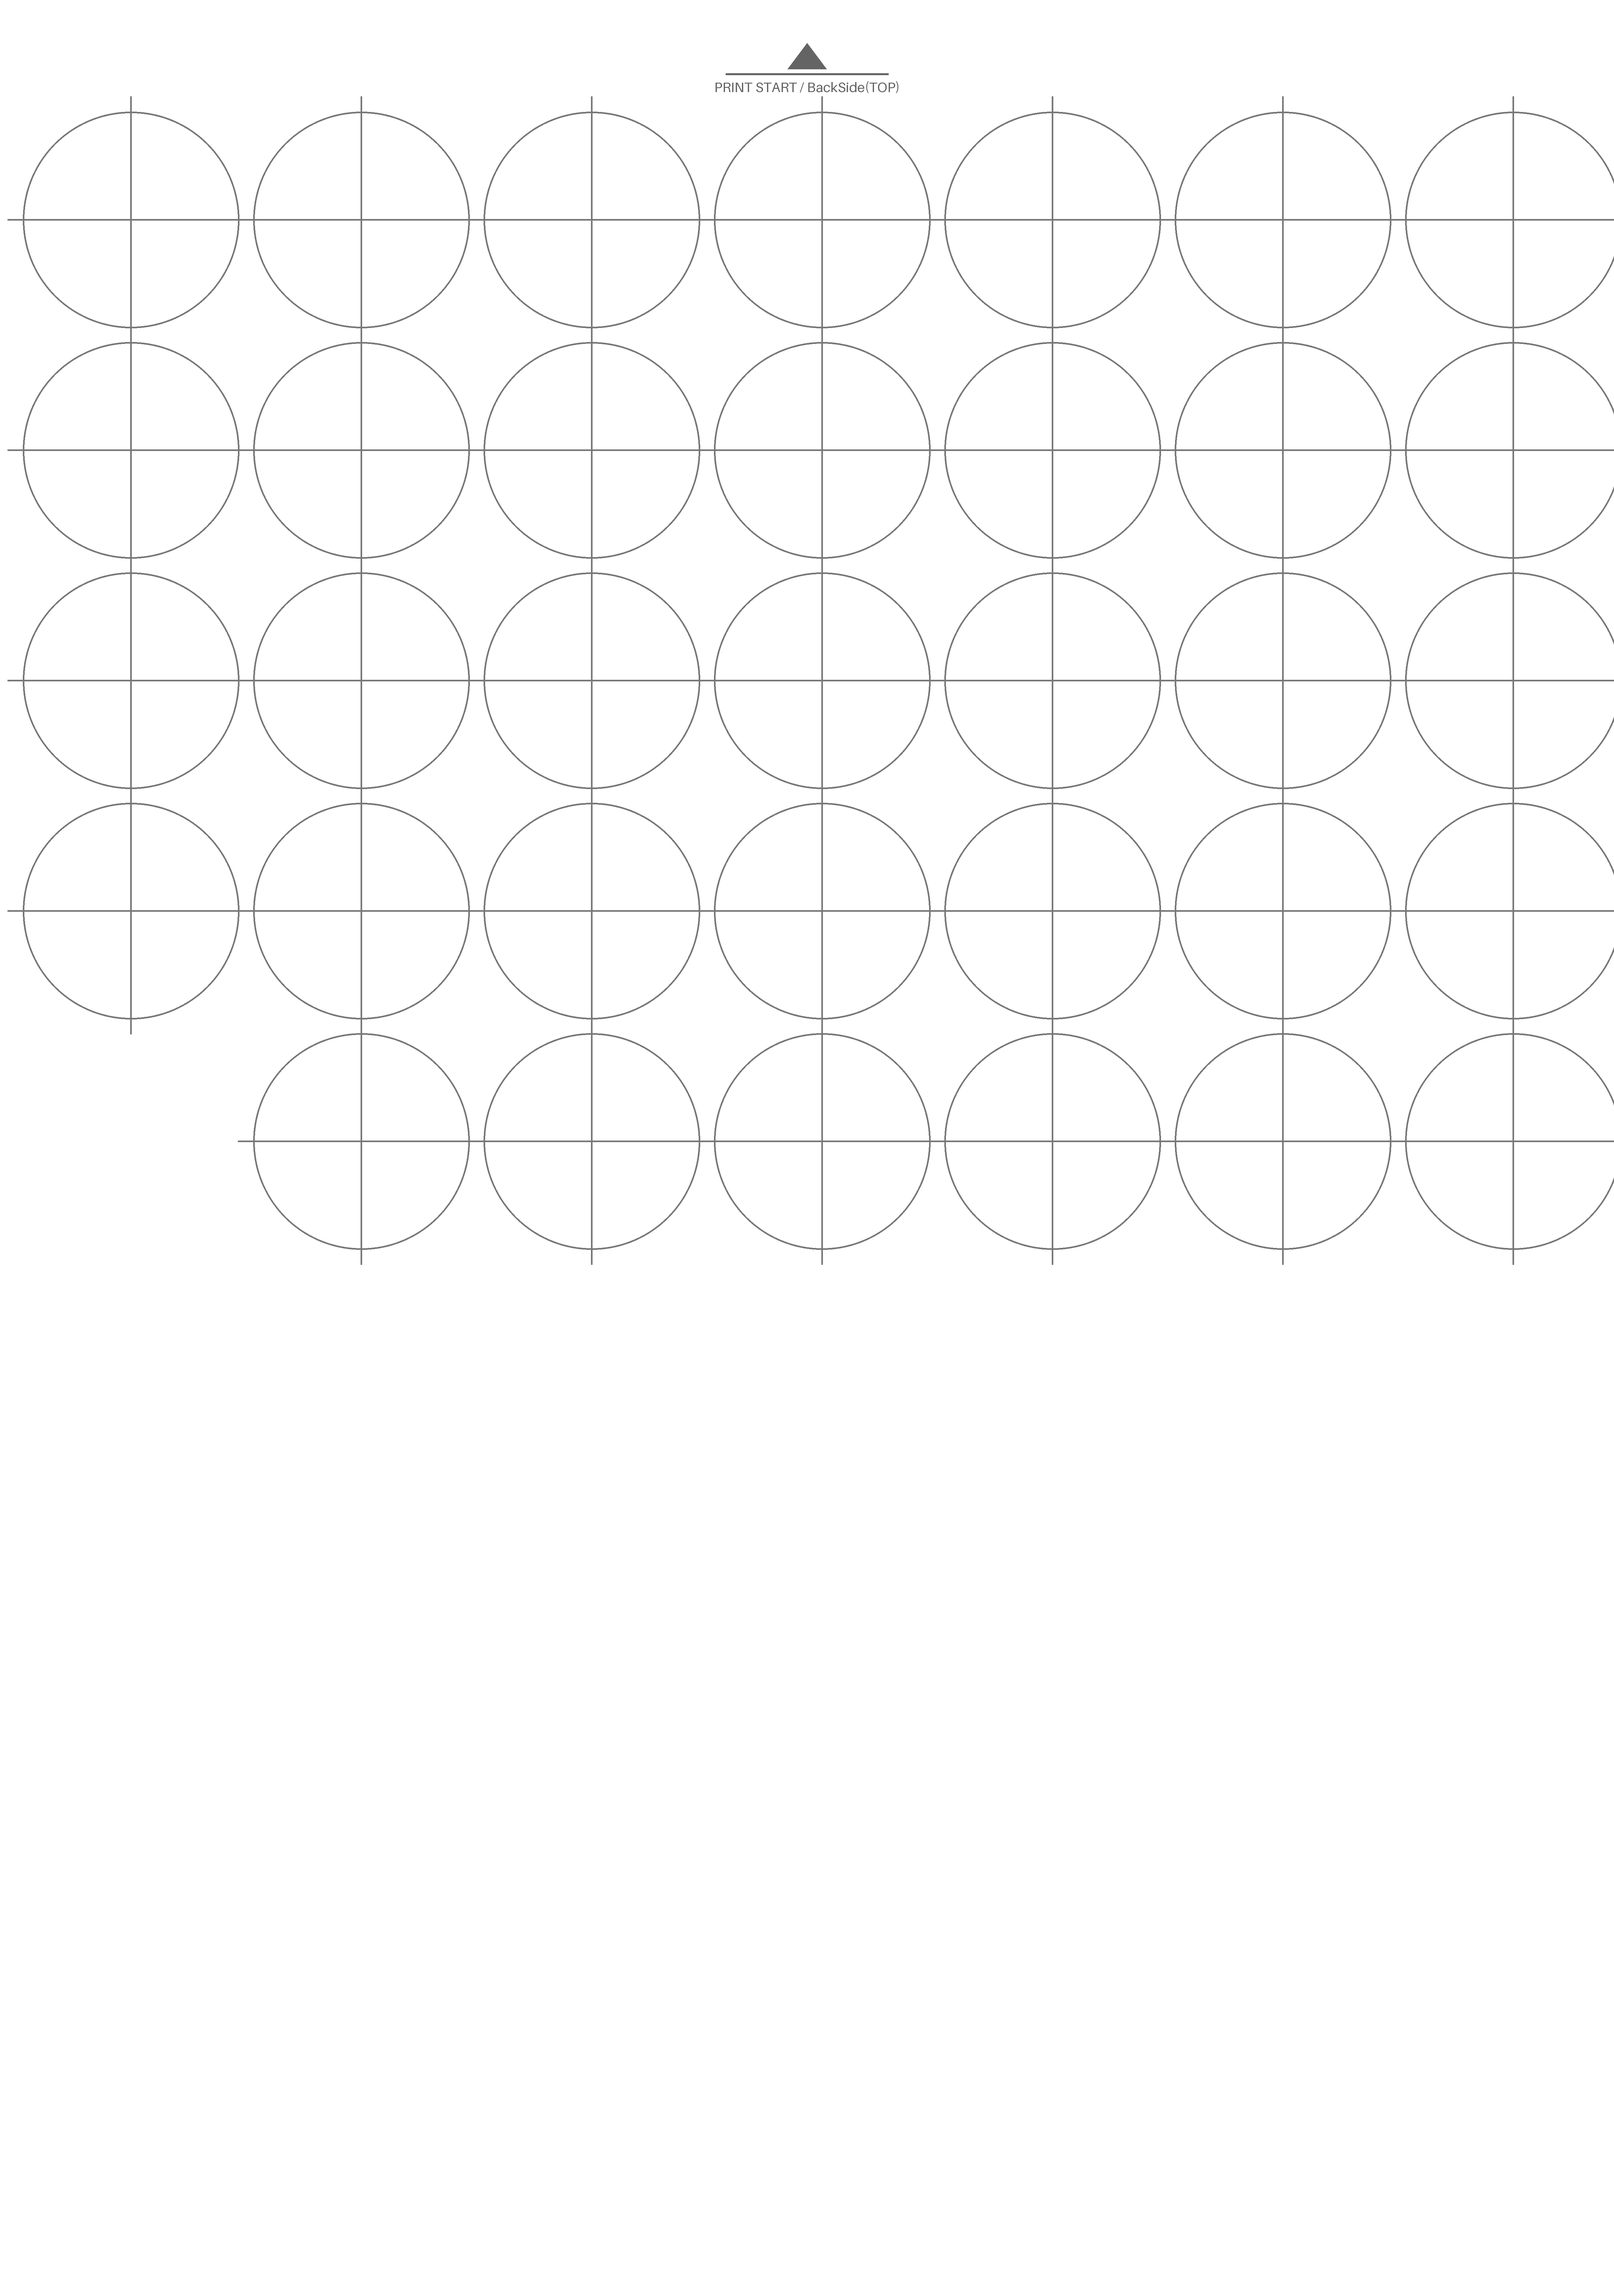
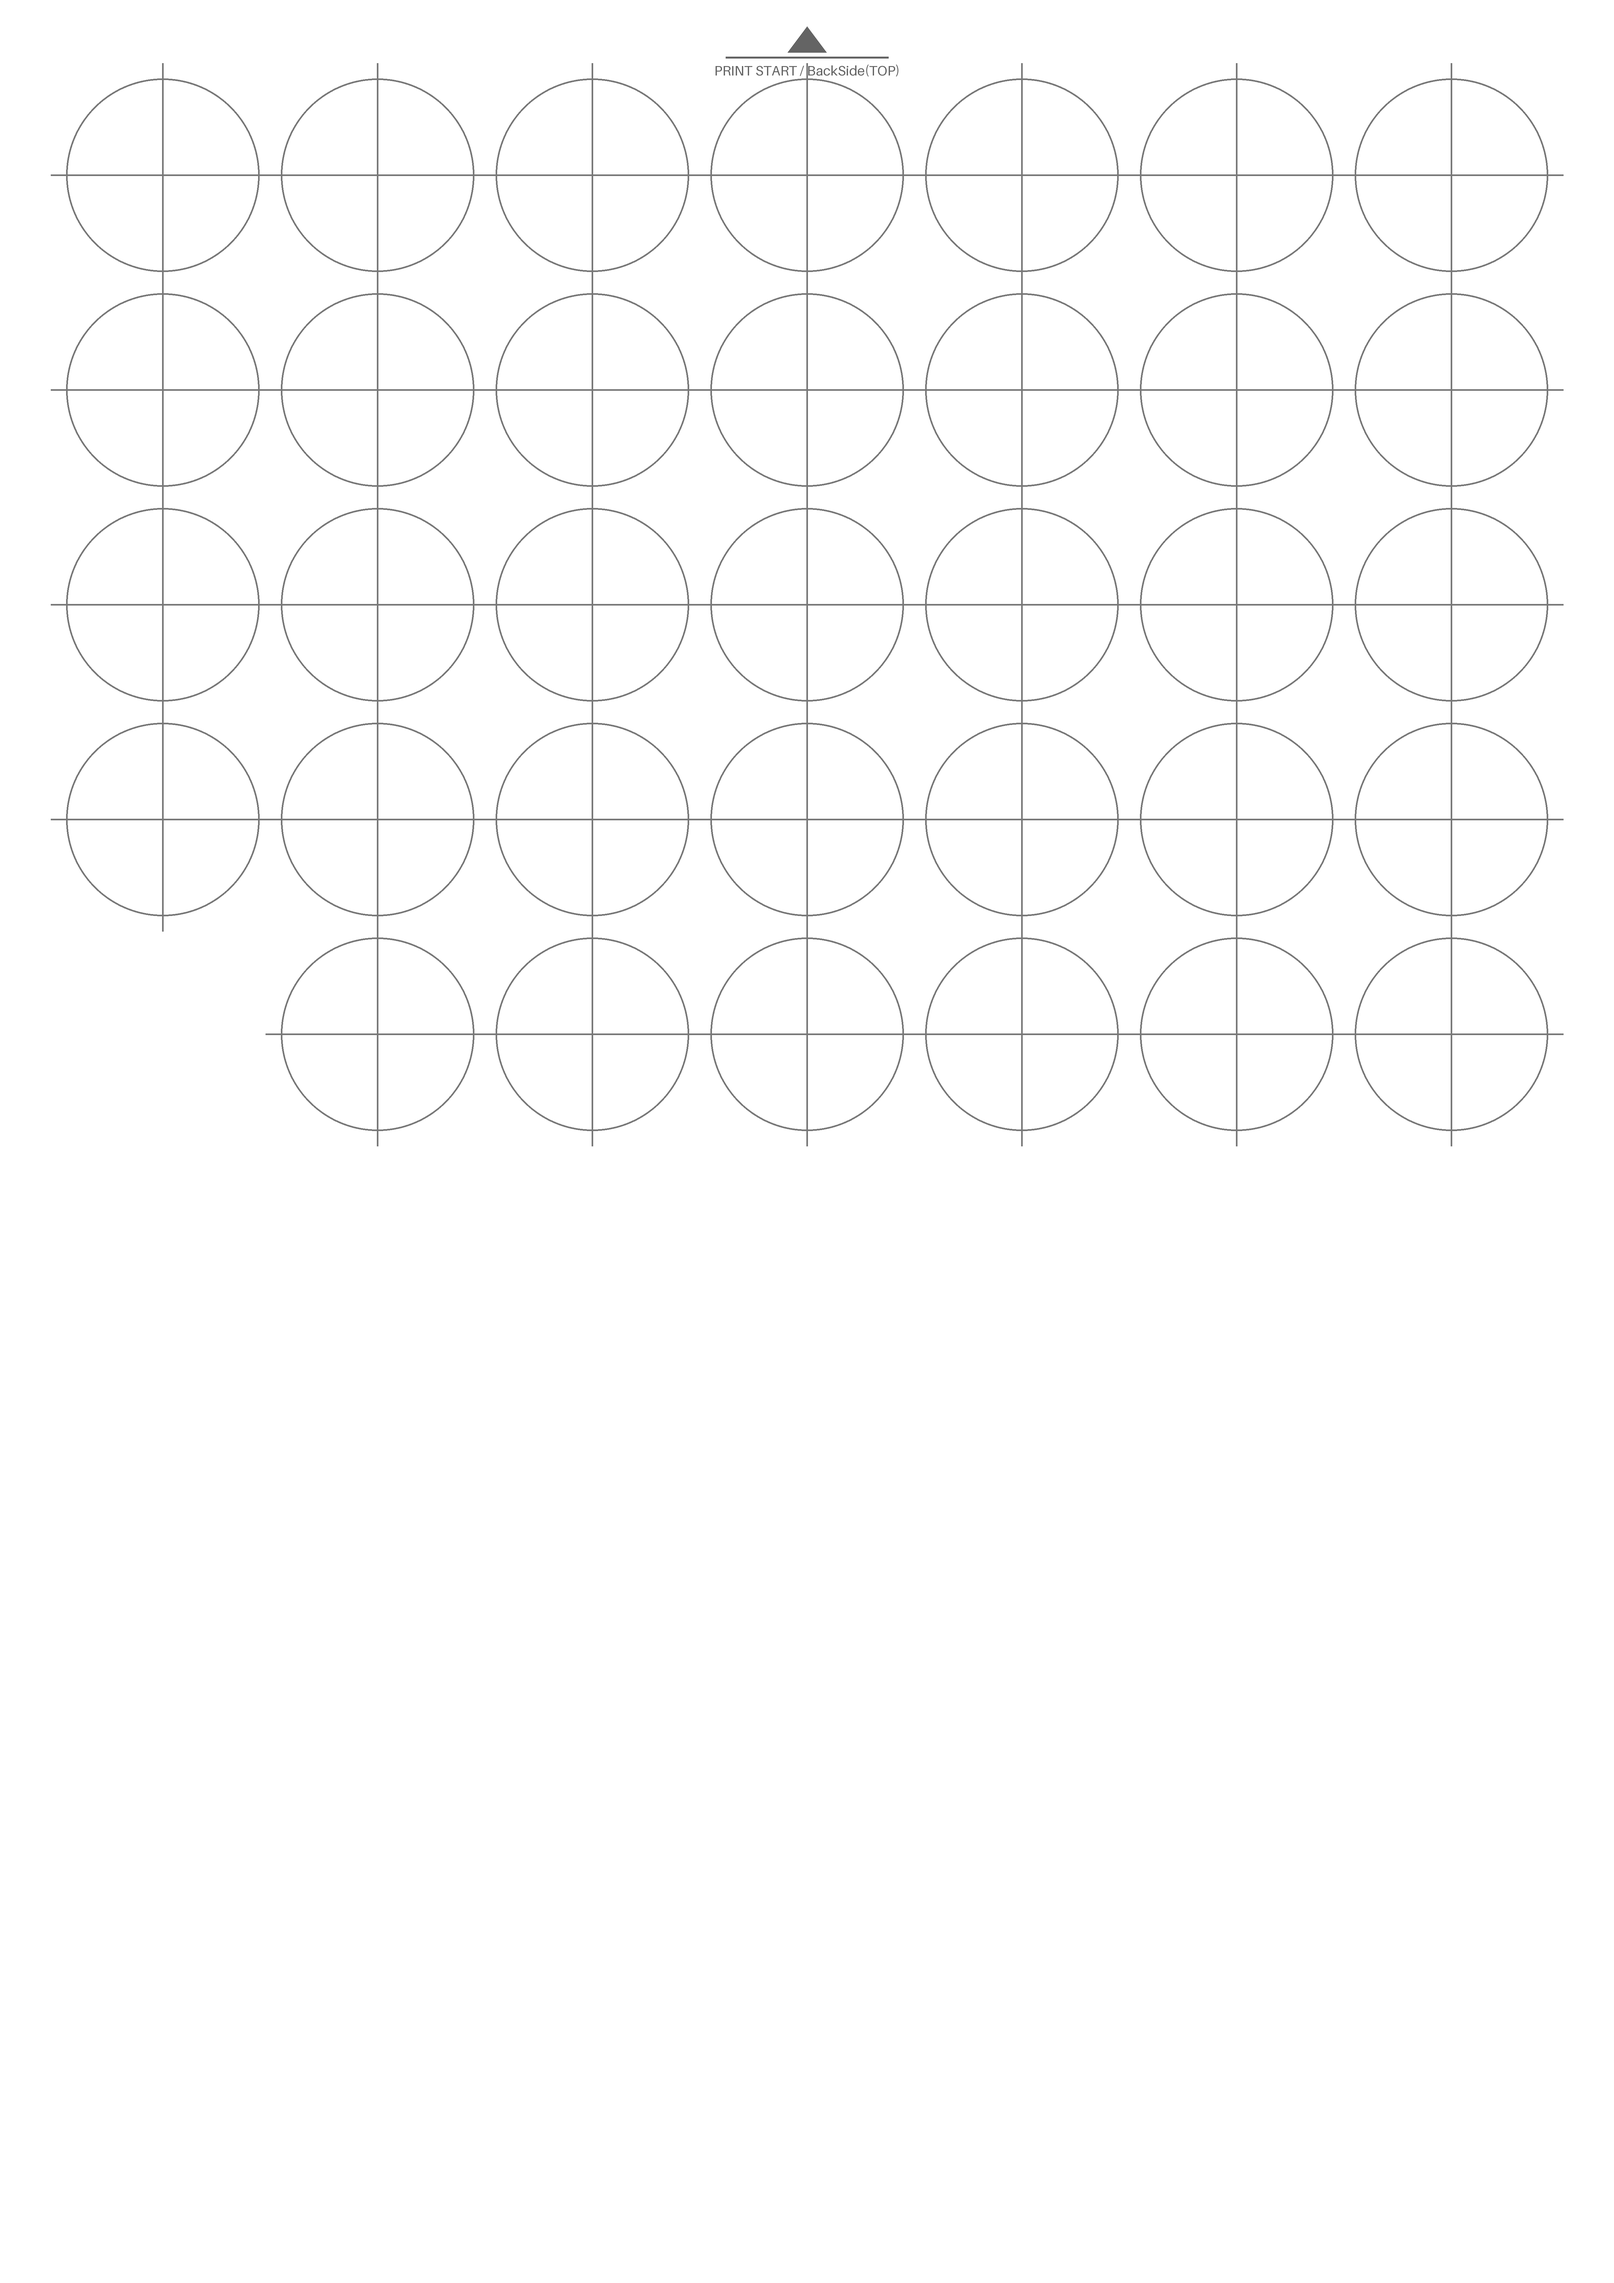
feat(generate_tokens): 設定 --skip-existing 為預設行為並新增 --overwrite 參數 - 將 argparse 中的 --skip-existing 預設值設為 True，避免重複生成已存在的 Token - 新增 --overwrite / --clean 選項，以便在需要時強制清空並重新生成所有 Token 圖片 新增角色

diff --git a/generate_tokens.py b/generate_tokens.py
@@ -28,8 +28,16 @@ def parse_args():
     )
     parser.add_argument(
         "--skip-existing", "--incremental",
+        dest="skip_existing",
         action="store_true",
-        help="Skip generating token images that already exist in Token_png"
+        default=True,
+        help="Skip generating token images that already exist in Token_png (default: True)"
+    )
+    parser.add_argument(
+        "--overwrite", "--clean", "--no-skip-existing",
+        dest="skip_existing",
+        action="store_false",
+        help="Force overwriting and regenerating existing token images in Token_png"
     )
     return parser.parse_args()
 
@@ -102,7 +110,7 @@ if not browser_path:
 print(f"Using browser: {browser_path}")
 
 # 4. 讀取 JSON 並下載圖片
-JSON_PATH = "botc-characters-1787841282696.json"
+JSON_PATH = "botc-characters-1788869425098.json"
 if not os.path.exists(JSON_PATH):
     print(f"Error: {JSON_PATH} not found.")
     exit(1)
